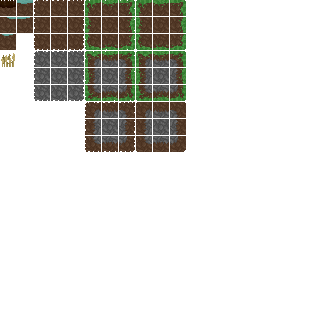
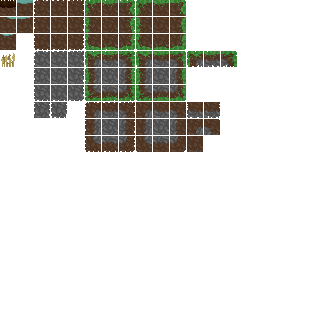
Better default stage

Changed region(s): [[0.5625, 0.3125, 0.6875, 0.5], [0.5625, 0.1562, 0.75, 0.2188], [0.0938, 0.3125, 0.2188, 0.375]]

diff --git a/src/stage.py b/src/stage.py
@@ -66,6 +66,8 @@ class Tile:
     TILE_STONE_7 = ord("m")
     TILE_STONE_8 = ord("n")
     TILE_STONE_9 = ord("o")
+    TILE_STONE_10 = ord("8")
+    TILE_STONE_11 = ord("9")
 
     TILE_DIRT_STONE_1 = ord("p")
     TILE_DIRT_STONE_2 = ord("q")
@@ -76,6 +78,8 @@ class Tile:
     TILE_DIRT_STONE_7 = ord("v")
     TILE_DIRT_STONE_8 = ord("w")
     TILE_DIRT_STONE_9 = ord("x")
+    TILE_DIRT_STONE_10 = ord("0")
+    TILE_DIRT_STONE_11 = ord("&")
 
     TILE_GRASS_DIRT_STONE_1 = ord("y")
     TILE_GRASS_DIRT_STONE_2 = ord("z")
@@ -135,6 +139,8 @@ class Tile:
         TILE_STONE_7,
         TILE_STONE_8,
         TILE_STONE_9,
+        TILE_STONE_10,
+        TILE_STONE_11,
 
         TILE_DIRT_STONE_1,
         TILE_DIRT_STONE_2,
@@ -145,6 +151,8 @@ class Tile:
         TILE_DIRT_STONE_7,
         TILE_DIRT_STONE_8,
         TILE_DIRT_STONE_9,
+        TILE_DIRT_STONE_10,
+        TILE_DIRT_STONE_11,
 
         TILE_GRASS_DIRT_STONE_1,
         TILE_GRASS_DIRT_STONE_2,
@@ -364,11 +372,13 @@ class Stage:
         stage = cls(50, 15)
 
         stage.set_terrain(
-            15, 2,
+            15, 0,
             b" b    b         b  b",
             b"JSSKSKSKKSKKKKSKSKKSKT",
-            b"qqqqqqqqqqqqqqqqqqqqqq",
-            b" mnnnnnnnnnnnnnnnnnno"
+            b"0qqqqqrVpqqqqqqqqqqqq&",
+            b" mnnnkkkkkknknnnkkkno",
+            b"     mnkkko 8   mno",
+            b"       mno  9"
         )
         floor = stage.add_entity(Floor)
         floor.get_hitbox().set_positions(15, 2, 37, 4)
@@ -400,9 +410,5 @@ class Stage:
         stage.add_spawn_point(29, 5)
         stage.add_spawn_point(17, 5)
         stage.add_spawn_point(35, 5)
-
-        #stage.add_entity(Item, IncarnationType.CORN).set_position(26, 5)
-        #stage.add_entity(Item, IncarnationType.POTATO).set_position(20, 9)
-        #stage.add_entity(Item, IncarnationType.POTATO).set_position(32, 9)
 
         return stage

diff --git a/src/view/kind/in_game.py b/src/view/kind/in_game.py
@@ -317,6 +317,8 @@ class InGameView(View):
         Tile.TILE_STONE_7: "TILE_STONE_7",
         Tile.TILE_STONE_8: "TILE_STONE_8",
         Tile.TILE_STONE_9: "TILE_STONE_9",
+        Tile.TILE_STONE_10: "TILE_STONE_10",
+        Tile.TILE_STONE_11: "TILE_STONE_11",
 
         Tile.TILE_DIRT_STONE_1: "TILE_DIRT_STONE_1",
         Tile.TILE_DIRT_STONE_2: "TILE_DIRT_STONE_2",
@@ -327,6 +329,8 @@ class InGameView(View):
         Tile.TILE_DIRT_STONE_7: "TILE_DIRT_STONE_7",
         Tile.TILE_DIRT_STONE_8: "TILE_DIRT_STONE_8",
         Tile.TILE_DIRT_STONE_9: "TILE_DIRT_STONE_9",
+        Tile.TILE_DIRT_STONE_10: "TILE_DIRT_STONE_10",
+        Tile.TILE_DIRT_STONE_11: "TILE_DIRT_STONE_11",
 
         Tile.TILE_GRASS_DIRT_STONE_1: "TILE_GRASS_DIRT_STONE_1",
         Tile.TILE_GRASS_DIRT_STONE_2: "TILE_GRASS_DIRT_STONE_2",

diff --git a/src/view/tilemap.py b/src/view/tilemap.py
@@ -105,6 +105,8 @@ TERRAIN_TILEMAP = TileMapDefinition(0, 0, 1, 1, 16, 16)\
     .tile("TILE_STONE_7", 2, 5)\
     .tile("TILE_STONE_8", 3, 5)\
     .tile("TILE_STONE_9", 4, 5)\
+    .tile("TILE_STONE_10", 2, 6)\
+    .tile("TILE_STONE_11", 3, 6)\
     .tile("TILE_DIRT_STONE_1", 8, 6)\
     .tile("TILE_DIRT_STONE_2", 9, 6)\
     .tile("TILE_DIRT_STONE_3", 10, 6)\
@@ -113,6 +115,8 @@ TERRAIN_TILEMAP = TileMapDefinition(0, 0, 1, 1, 16, 16)\
     .tile("TILE_DIRT_STONE_7", 8, 8)\
     .tile("TILE_DIRT_STONE_8", 9, 8)\
     .tile("TILE_DIRT_STONE_9", 10, 8)\
+    .tile("TILE_DIRT_STONE_10", 11, 6)\
+    .tile("TILE_DIRT_STONE_11", 12, 6)\
     .tile("TILE_GRASS_DIRT_STONE_1", 8, 3)\
     .tile("TILE_GRASS_DIRT_STONE_2", 9, 3)\
     .tile("TILE_GRASS_DIRT_STONE_3", 10, 3)\
